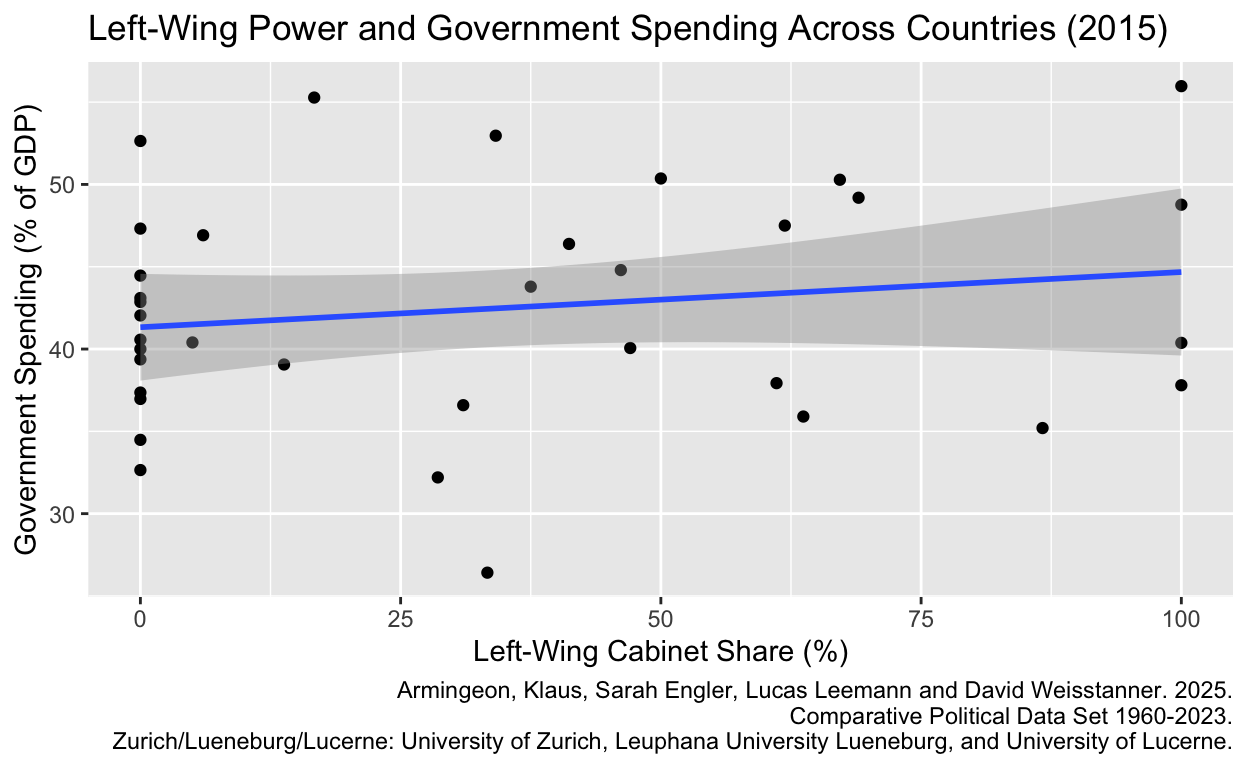
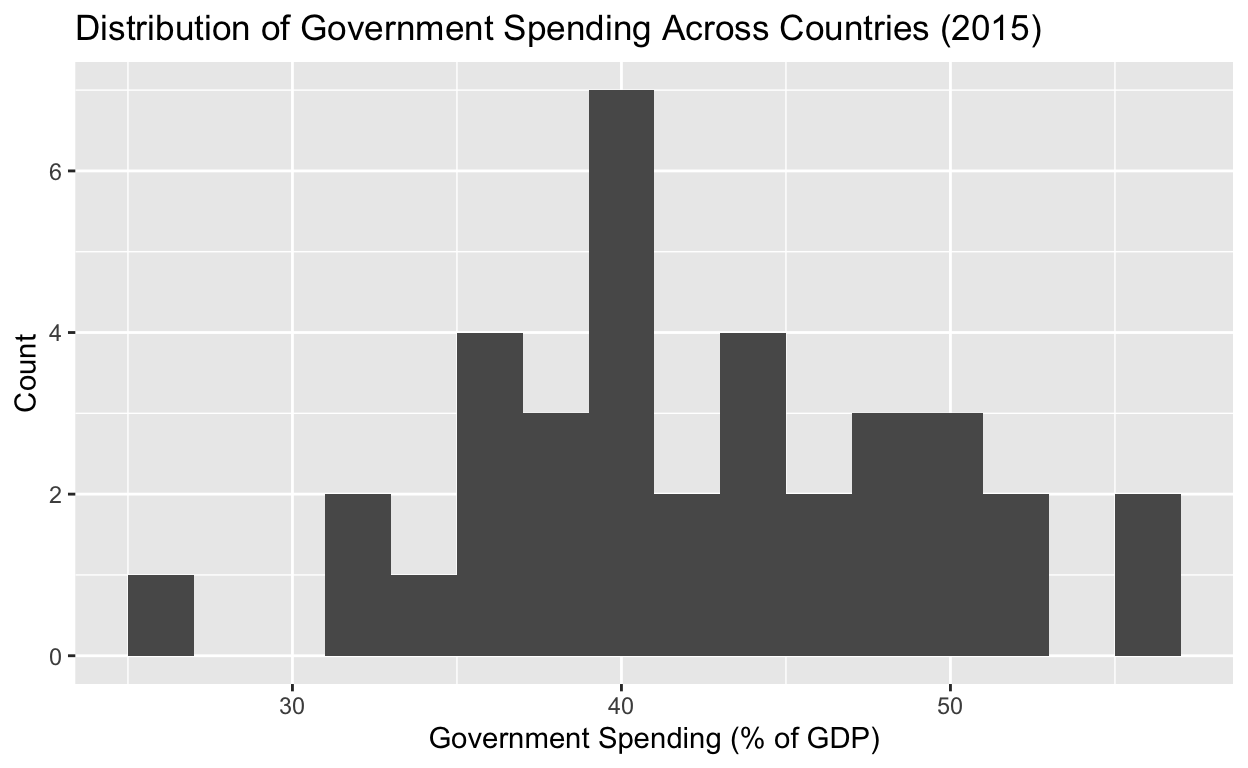
draft 2

diff --git a/index.html b/index.html
@@ -116,7 +116,7 @@ code span.wa { color: #5e5e5e; font-style: italic; } /* Warning */
   <!--/radix_placeholder_rmarkdown_metadata-->
   
   <script type="text/json" id="radix-resource-manifest">
-  {"type":"character","attributes":{},"value":["CPDS_1960-2023_Update_2025.dta","index_files/anchor-4.2.2/anchor.min.js","index_files/bowser-1.9.3/bowser.min.js","index_files/distill-2.2.21/template.v2.js","index_files/figure-html5/unnamed-chunk-2-1.png","index_files/figure-html5/unnamed-chunk-3-1.png","index_files/figure-html5/unnamed-chunk-4-1.png","index_files/header-attrs-2.17/header-attrs.js","index_files/header-attrs-2.30/header-attrs.js","index_files/jquery-3.6.0/jquery-3.6.0.js","index_files/jquery-3.6.0/jquery-3.6.0.min.js","index_files/jquery-3.6.0/jquery-3.6.0.min.map","index_files/popper-2.6.0/popper.min.js","index_files/tippy-6.2.7/tippy-bundle.umd.min.js","index_files/tippy-6.2.7/tippy-light-border.css","index_files/tippy-6.2.7/tippy.css","index_files/tippy-6.2.7/tippy.umd.min.js","index_files/webcomponents-2.0.0/webcomponents.js"]}
+  {"type":"character","attributes":{},"value":["CPDS_1960-2023_Update_2025.dta","index_files/anchor-4.2.2/anchor.min.js","index_files/bowser-1.9.3/bowser.min.js","index_files/distill-2.2.21/template.v2.js","index_files/figure-html5/unnamed-chunk-2-1.png","index_files/figure-html5/unnamed-chunk-3-1.png","index_files/figure-html5/unnamed-chunk-4-1.png","index_files/figure-html5/unnamed-chunk-5-1.png","index_files/header-attrs-2.17/header-attrs.js","index_files/header-attrs-2.30/header-attrs.js","index_files/jquery-3.6.0/jquery-3.6.0.js","index_files/jquery-3.6.0/jquery-3.6.0.min.js","index_files/jquery-3.6.0/jquery-3.6.0.min.map","index_files/popper-2.6.0/popper.min.js","index_files/tippy-6.2.7/tippy-bundle.umd.min.js","index_files/tippy-6.2.7/tippy-light-border.css","index_files/tippy-6.2.7/tippy.css","index_files/tippy-6.2.7/tippy.umd.min.js","index_files/webcomponents-2.0.0/webcomponents.js"]}
   </script>
   <!--radix_placeholder_navigation_in_header-->
   <!--/radix_placeholder_navigation_in_header-->
@@ -1559,7 +1559,12 @@ code span.wa { color: #5e5e5e; font-style: italic; } /* Warning */
 <div class="layout-chunk" data-layout="l-body">
 <p><img src="index_files/figure-html5/unnamed-chunk-2-1.png" alt="" width="624" /></p>
 </div>
-<p>The scatter plot shows a positive relationship between left-wing cabinet share and government spending across countries in 2015, but the relationship is relatively weak and there is substantial variation across countries. This suggests that while left-wing participation may be associated with higher spending, other factors also play a significant role in shaping government expenditure.</p>
+<p>Figure 1 shows the distribution of government spending across countries in 2015. Most countries fall within a middle range of around 35% to 50% of GDP, with fewer countries at the lower and higher ends. This suggests that while there is some variation in spending across countries, most democracies tend to have relatively similar levels of government spending.</p>
+<h3 id="figure-2">Figure 2</h3>
+<div class="layout-chunk" data-layout="l-body">
+<p><img src="index_files/figure-html5/unnamed-chunk-3-1.png" alt="" width="624" /></p>
+</div>
+<p>This scatter plot shows a positive relationship between left-wing cabinet share and government spending across countries in 2015, but the relationship is relatively weak and there is substantial variation across countries. This suggests that while left-wing participation may be associated with higher spending, other factors also play a significant role in shaping government expenditure.</p>
 <h3 id="regression">Regression</h3>
 <div class="layout-chunk" data-layout="l-body">
 <table>
@@ -1591,9 +1596,9 @@ code span.wa { color: #5e5e5e; font-style: italic; } /* Warning */
 </table>
 </div>
 <p>The results of the regression reinforce this pattern, showing a positive relationship between left-wing cabinet share and government spending, with a coefficient of 0.03. This result suggests that a one percentage point increase in left-wing cabinet share is associated with a 0.03 percentage point increase in government spending as a share of the GDP. However, the p-value of 0.32 indicates that the relationship is not statistically significant at our given levels. Due to these findings, there is not enough evidence to conclude that left wing- participation in government is meaningfully associated with higher levels of government spending in this cross-section.</p>
-<h3 id="figure-2">Figure 2</h3>
+<h3 id="figure-3">Figure 3</h3>
 <div class="layout-chunk" data-layout="l-body">
-<p><img src="index_files/figure-html5/unnamed-chunk-4-1.png" alt="" width="624" /></p>
+<p><img src="index_files/figure-html5/unnamed-chunk-5-1.png" alt="" width="624" /></p>
 </div>
 <p>The within-country comparison provides additional context. By comparing each country to its own average level of left-wing representation over time, the boxplot shows that government spending tends to be slightly higher in years when countries are more left-wing than usual. However, there is considerable overlap between the distributions, suggesting that the effect is small and that changes in left-wing representation alone do not explain most variation in spending.</p>
 <h3 id="synopsis-of-results">Synopsis of results</h3>
@@ -1609,12 +1614,20 @@ Used to clean up wording and use technical terminology in write up.</p>
 <pre class="sourceCode r"><code class="sourceCode r"><span><span class='kw'><a href='https://rdrr.io/r/base/library.html'>library</a></span><span class='op'>(</span><span class='va'><a href='https://haven.tidyverse.org'>haven</a></span><span class='op'>)</span></span>
 <span><span class='kw'><a href='https://rdrr.io/r/base/library.html'>library</a></span><span class='op'>(</span><span class='va'><a href='https://tidyverse.tidyverse.org'>tidyverse</a></span><span class='op'>)</span></span>
 <span><span class='va'>cpds</span> <span class='op'>&lt;-</span> <span class='fu'><a href='https://haven.tidyverse.org/reference/read_dta.html'>read_dta</a></span><span class='op'>(</span><span class='st'>"CPDS_1960-2023_Update_2025.dta"</span><span class='op'>)</span></span>
-<span></span>
 <span><span class='va'>cpds_2015</span> <span class='op'>&lt;-</span> <span class='va'>cpds</span> <span class='op'>|&gt;</span></span>
 <span>  <span class='fu'><a href='https://dplyr.tidyverse.org/reference/select.html'>select</a></span><span class='op'>(</span><span class='va'>country</span>, <span class='va'>year</span>, <span class='va'>gov_left1</span>, <span class='va'>outlays</span><span class='op'>)</span> <span class='op'>|&gt;</span></span>
 <span>  <span class='fu'><a href='https://dplyr.tidyverse.org/reference/filter.html'>filter</a></span><span class='op'>(</span><span class='va'>year</span> <span class='op'>==</span> <span class='fl'>2015</span><span class='op'>)</span> <span class='op'>|&gt;</span></span>
 <span>  <span class='fu'><a href='https://tidyr.tidyverse.org/reference/drop_na.html'>drop_na</a></span><span class='op'>(</span><span class='va'>gov_left1</span>, <span class='va'>outlays</span><span class='op'>)</span></span>
-<span><span class='va'>fig_1</span> <span class='op'>&lt;-</span> <span class='fu'><a href='https://ggplot2.tidyverse.org/reference/ggplot.html'>ggplot</a></span><span class='op'>(</span>data <span class='op'>=</span> <span class='va'>cpds_2015</span>, <span class='fu'><a href='https://ggplot2.tidyverse.org/reference/aes.html'>aes</a></span><span class='op'>(</span>x <span class='op'>=</span> <span class='va'>gov_left1</span>, y <span class='op'>=</span> <span class='va'>outlays</span><span class='op'>)</span><span class='op'>)</span> <span class='op'>+</span></span>
+<span><span class='va'>histo_outcome</span> <span class='op'>&lt;-</span> </span>
+<span>  <span class='fu'><a href='https://ggplot2.tidyverse.org/reference/ggplot.html'>ggplot</a></span><span class='op'>(</span><span class='va'>cpds_2015</span>, <span class='fu'><a href='https://ggplot2.tidyverse.org/reference/aes.html'>aes</a></span><span class='op'>(</span>x <span class='op'>=</span> <span class='va'>outlays</span><span class='op'>)</span><span class='op'>)</span> <span class='op'>+</span></span>
+<span>  <span class='fu'><a href='https://ggplot2.tidyverse.org/reference/geom_histogram.html'>geom_histogram</a></span><span class='op'>(</span>binwidth <span class='op'>=</span> <span class='fl'>2</span><span class='op'>)</span> <span class='op'>+</span></span>
+<span>  <span class='fu'><a href='https://ggplot2.tidyverse.org/reference/labs.html'>labs</a></span><span class='op'>(</span></span>
+<span>    x <span class='op'>=</span> <span class='st'>"Government Spending (% of GDP)"</span>,</span>
+<span>    y <span class='op'>=</span> <span class='st'>"Count"</span>,</span>
+<span>    title <span class='op'>=</span> <span class='st'>"Distribution of Government Spending Across Countries (2015)"</span></span>
+<span>  <span class='op'>)</span></span>
+<span><span class='va'>histo_outcome</span></span>
+<span><span class='va'>fig_2</span> <span class='op'>&lt;-</span> <span class='fu'><a href='https://ggplot2.tidyverse.org/reference/ggplot.html'>ggplot</a></span><span class='op'>(</span>data <span class='op'>=</span> <span class='va'>cpds_2015</span>, <span class='fu'><a href='https://ggplot2.tidyverse.org/reference/aes.html'>aes</a></span><span class='op'>(</span>x <span class='op'>=</span> <span class='va'>gov_left1</span>, y <span class='op'>=</span> <span class='va'>outlays</span><span class='op'>)</span><span class='op'>)</span> <span class='op'>+</span></span>
 <span>  <span class='fu'><a href='https://ggplot2.tidyverse.org/reference/geom_point.html'>geom_point</a></span><span class='op'>(</span><span class='op'>)</span> <span class='op'>+</span></span>
 <span>  <span class='fu'><a href='https://ggplot2.tidyverse.org/reference/geom_smooth.html'>geom_smooth</a></span><span class='op'>(</span>method <span class='op'>=</span> <span class='st'>"lm"</span>, se <span class='op'>=</span> <span class='cn'>TRUE</span><span class='op'>)</span> <span class='op'>+</span></span>
 <span>  <span class='fu'><a href='https://ggplot2.tidyverse.org/reference/labs.html'>labs</a></span><span class='op'>(</span></span>
@@ -1625,7 +1638,7 @@ Used to clean up wording and use technical terminology in write up.</p>
 <span><span class='st'>Comparative Political Data Set 1960-2023.</span></span>
 <span><span class='st'>Zurich/Lueneburg/Lucerne: University of Zurich, Leuphana University Lueneburg, and University of Lucerne."</span></span>
 <span>  <span class='op'>)</span></span>
-<span><span class='va'>fig_1</span></span>
+<span><span class='va'>fig_2</span></span>
 <span><span class='va'>reg_1</span> <span class='op'>&lt;-</span> <span class='fu'><a href='https://rdrr.io/r/stats/lm.html'>lm</a></span><span class='op'>(</span><span class='va'>outlays</span> <span class='op'>~</span> <span class='va'>gov_left1</span>, data <span class='op'>=</span> <span class='va'>cpds_2015</span><span class='op'>)</span></span>
 <span></span>
 <span><span class='kw'><a href='https://rdrr.io/r/base/library.html'>library</a></span><span class='op'>(</span><span class='va'><a href='https://broom.tidymodels.org/'>broom</a></span><span class='op'>)</span></span>
